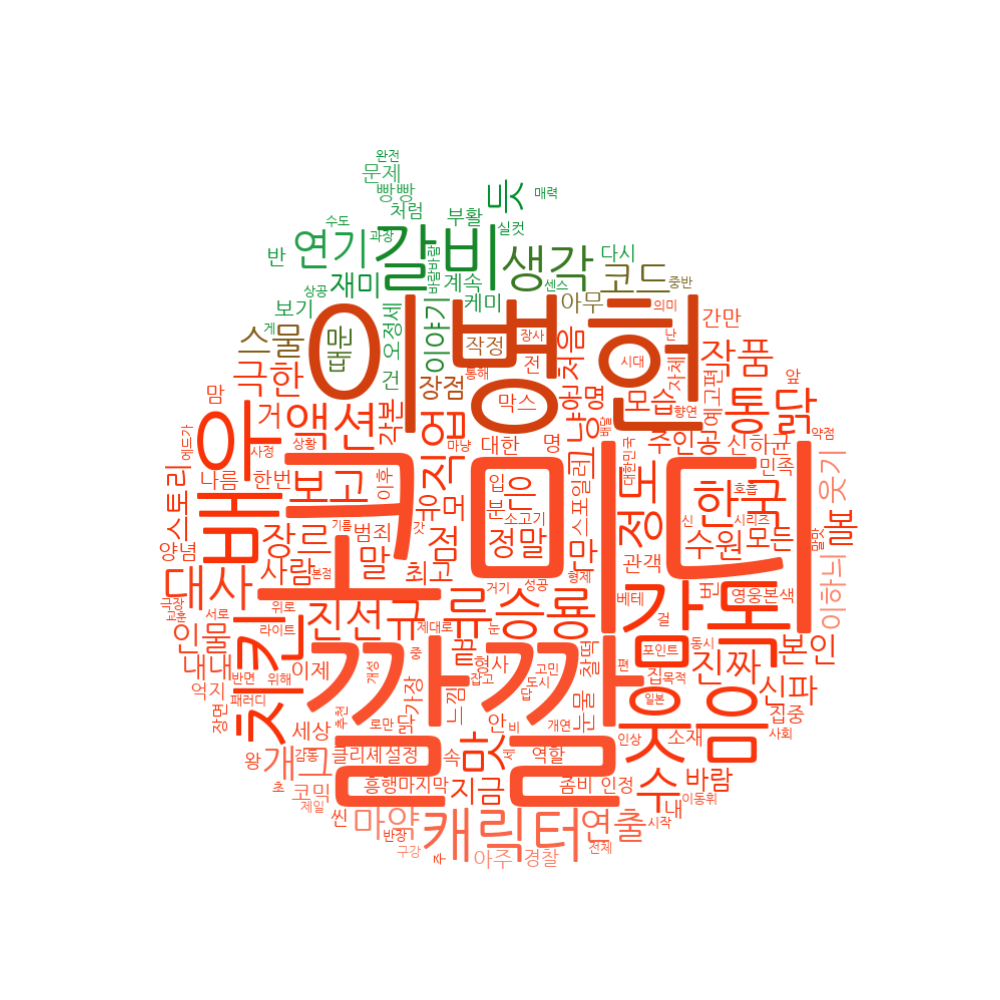
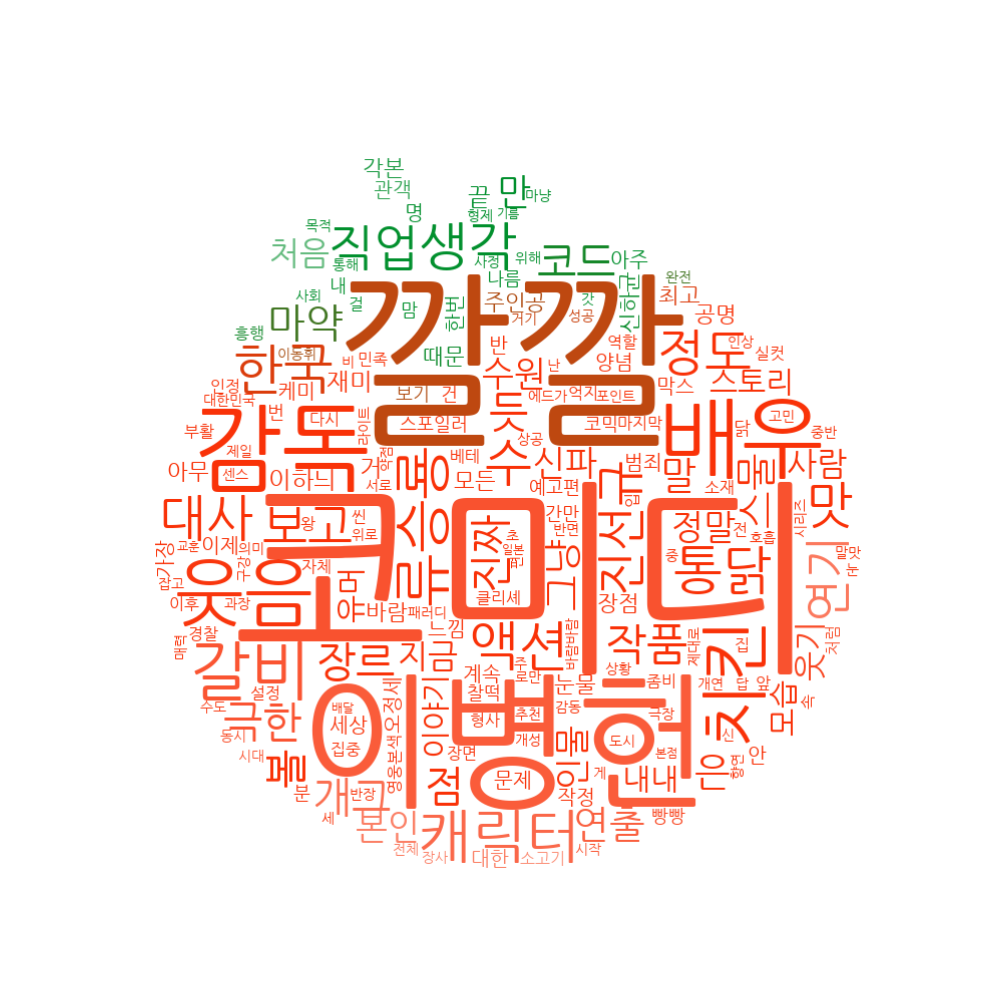
feat: crontab 기능 추가, 기존 업데이트 버튼 삭제

Changed region(s): [[0.155, 0.155, 0.868, 0.868]]

diff --git a/reviewSite/templates/album/index.html b/reviewSite/templates/album/index.html
@@ -5,7 +5,6 @@
   <div class="content-list max-content-width">
     <div class="header">
       <h2>영화 목록</h2>
-      <a class="us-ic-button newalbum" href="{% url 'movie_info_update' %}">업데이트</a>
     </div>
 
       <div class="contents">

diff --git a/reviewSite/album/cron.py b/reviewSite/album/cron.py
@@ -8,34 +8,35 @@ from collections import Counter
 import os
 import sqlite3
 
+"""
+경로가 사람마다 달라지니까 주의하세요!! update_info 안에서 print(os.getcwd())로 확인하기
+"""
+DB_PATH = "ttt/back-end-repo/reviewSite/db.sqlite3" # DB 경로
+IMG_SAVE_PATH = 'ttt/back-end-repo/reviewSite/media/album_pics/' # 이미지 저장할 경로
+PATH = 'ttt/back-end-repo/reviewSite/album/updateInfoFile/' # 워드클라우드 생성 위한 베이스 파일 경로
+
+
 def update_info():
     """
-    업데이트 버튼을 누르면 실행되는 함수입니다.
+    Ddjango-Crontab을 통해 주기적으로 실행되는 함수입니다.
     TOP10 영화의 포스터와 이들의 리뷰에 따른 워드클라우드 이미지, 영화 제목, 현재 날짜를 교체합니다.
     """
 
-    print(os.getcwd())
-    # 파일들의 경로
-    path = 'album/updateInfoFile/'
-
-
     # csv 파일 불러오기
-    df = pd.read_csv(path + "reviews_total.csv")
-    df2 = pd.read_csv(path + "reviews_ranking.csv")
-    k_stopword = pd.read_csv(path + "korean_stopword.csv")
+    df = pd.read_csv(PATH + "reviews_total.csv")
+    df2 = pd.read_csv(PATH + "reviews_ranking.csv")
+    k_stopword = pd.read_csv(PATH + "korean_stopword.csv")
     k_stopword = list(k_stopword['불용어'])
     k_stopword.append('영화')
     k_stopword.append('더')
 
-    print('here 1')
 
     # mask로 쓸 이미지 파일 부르기
-    img1 = path + 'Rotten_Tomatoes.png'
-    img2 = path + 'Rotten_Tomatoes_rotten.png'
+    img1 = PATH + 'Rotten_Tomatoes.png'
+    img2 = PATH + 'Rotten_Tomatoes_rotten.png'
     mask_p = np.array(Image.open(img1))
     mask_n = np.array(Image.open(img2))
 
-    print('here 2')
 
     # rate가 문자인 경우 삭제, 이상한 단어 삭제
     df['rate'] = df['rate'].str.replace(pat=r'[ㄱ-ㅣ가-힣]+', repl= r'', regex=True)
@@ -50,21 +51,16 @@ def update_info():
     tokenizer = Okt()
     df['tokenized'] = df['review'].apply(tokenizer.nouns)
 
-    print('here 3')
 
     # DB 연결
-    conn = sqlite3.connect("db.sqlite3")
-    # conn = sqlite3.connect("./../db.sqlite3")
+    conn = sqlite3.connect(DB_PATH)
     cur = conn.cursor()
 
-    print('here 4')
 
     # 영화 랭킹 순으로 긍정, 부정 워드 클라우드 만들기
     for i in range(0,len(df2)):
-        print('--' + str(i+1) + 'here --')
 
         df3 = df.loc[df['movie_title']==df2['title'][i]]
-        # print(df3)
 
         # 해당 영화에 리뷰가 없을경우 continue
         if len(df3) == 0:
@@ -79,9 +75,6 @@ def update_info():
         rank_text_n=dict(negative_count)
 
 
-        print('here 5')
-
-
         # 불용어 제거
         temp_dic_p={}
 
@@ -94,10 +87,9 @@ def update_info():
             if key not in k_stopword:
                 temp_dic_n[key]=value
 
-        print('here 6')
 
         wordcloud_p = WordCloud(
-            font_path = path + 'NanumGothic.ttf',
+            font_path = PATH + 'NanumGothic.ttf',
             width = 500,
             height = 500,
             background_color = "white",
@@ -105,14 +97,12 @@ def update_info():
         )
 
         wordcloud_n = WordCloud(
-            font_path = path + 'NanumGothic.ttf',
+            font_path = PATH + 'NanumGothic.ttf',
             width = 500,
             height = 500,
             background_color = "white",
             mask = mask_n
         )
-
-        print('here 7')
 
         wordcloud_p = wordcloud_p.generate_from_frequencies(temp_dic_p)
         wordcloud_n = wordcloud_n.generate_from_frequencies(temp_dic_n)
@@ -130,49 +120,38 @@ def update_info():
 
         conn.commit() # DB에 반영
 
-        print('here 8')
-
-        # 이미지 저장할 경로
-        img_save_path = 'media/album_pics/'
-        # img_save_path = './../media/album_pics/'
-
         #긍정리뷰 이미지 저장
         plt.figure(figsize=(10, 10))
         plt.imshow(wordcloud_p.recolor(color_func=image_colors_p), interpolation="bilinear")
         plt.axis("off")
 
-        total_img_save_path = img_save_path + str(i+1) + '.png'
+        total_good_img_save_path = IMG_SAVE_PATH + str(i+1) + '.png'
 
         # 이미지 덮어쓰기가 plt에서는 지원이 안되므로 삭제했다가 저장 새로하기
-        if os.path.isfile(total_img_save_path):
-            os.remove(total_img_save_path)
+        if os.path.isfile(total_good_img_save_path):
+            os.remove(total_good_img_save_path)
 
-        plt.savefig(total_img_save_path)
+        plt.savefig(total_good_img_save_path)
 
         #부정리뷰 이미지 저장
         plt.figure(figsize=(10,10))
         plt.imshow(wordcloud_n.recolor(color_func=image_colors_n), interpolation="bilinear")
         plt.axis("off")
 
-        total_img_save_path = img_save_path + str(i+1) + '-1' + '.png'
+        total_bad_img_save_path = IMG_SAVE_PATH + str(i+1) + '-1' + '.png'
             
         # 이미지 덮어쓰기가 plt에서는 지원이 안되므로 삭제했다가 저장 새로하기
-        if os.path.isfile(total_img_save_path):
-            os.remove(total_img_save_path)
+        if os.path.isfile(total_bad_img_save_path):
+            os.remove(total_bad_img_save_path)
             
-        plt.savefig(total_img_save_path)
+        plt.savefig(total_bad_img_save_path)
 
         # 포스터 변경
         poster_url = df2['img'][i]
-        os.system("curl " + poster_url + " > " + img_save_path + "%s_poster.jpg" % (str(i+1)))
-
-        print('here 9')
+        os.system("curl " + poster_url + " > " + IMG_SAVE_PATH + "%s_poster.jpg" % (str(i+1)))
 
     # for문 끝나고 DB 연결 해제
     cur.close()
     conn.close()
 
-    print('here 10-done')
-
-if __name__ == "__main__":
-    update_info()
+    print('Done.') # log 확인을 위해서 종료 메시지 추가

diff --git a/reviewSite/reviewSite/settings.py b/reviewSite/reviewSite/settings.py
@@ -32,6 +32,7 @@ ALLOWED_HOSTS = []
 # Application definition
 
 INSTALLED_APPS = [
+    'django_crontab',
     'django.contrib.admin',
     'django.contrib.auth',
     'django.contrib.contenttypes',
@@ -41,7 +42,6 @@ INSTALLED_APPS = [
     'django.contrib.sites',
     'common',
     'album',
-    #'django_crontab',
     'widget_tweaks',
     'allauth', # 항상 allauth보다 새로 만든 앱이 위에 와 있어야 함
     'allauth.account',
@@ -123,9 +123,9 @@ STATICFILES_DIRS =[ BASE_DIR / 'static', ] # static 폴더 경로 지정
 AUTH_USER_MODEL = 'common.User' # Auth 유저 모델 지정
 
 # Crontab 적용
-#CRONJOBS = [
-#    ('*/3 * * * *', 'album.cron.update_info', '>> ' + os.path.join(BASE_DIR, 'config/log/cron.log')),
-#]
+CRONJOBS = [
+    ('*/5 * * * *', 'album.cron.update_info', '>> ' + os.path.join(BASE_DIR, 'config/log/cron.log') + ' 2>&1'),
+]
 
 
 # Default primary key field type

diff --git a/reviewSite/album/views.py b/reviewSite/album/views.py
@@ -11,16 +11,7 @@ from django.views.generic import (
 )
 from album.models import Album
 from album.forms import AlbumForm
-import os
 
-def movie_info_update(request):
-    """
-    cron.py에 있는 함수를 호출해 업데이트하고 완료 페이지를 띄웁니다.
-    """
-
-    val = "python3 album/cron.py" # cron.py를 사전에 sudo chmod 777로 바꿔주세요
-    os.system(val)
-    return render(request, 'album/update_after.html')
 
 class IndexView(ListView):
     model = Album

diff --git a/reviewSite/album/urls.py b/reviewSite/album/urls.py
@@ -19,9 +19,4 @@ urlpatterns = [
         views.AlbumDeleteView.as_view(),
         name='album-delete',
     ),
-    path(
-        'albums/info_update/',
-        views.movie_info_update,
-        name='movie_info_update',
-    ),
 ]
